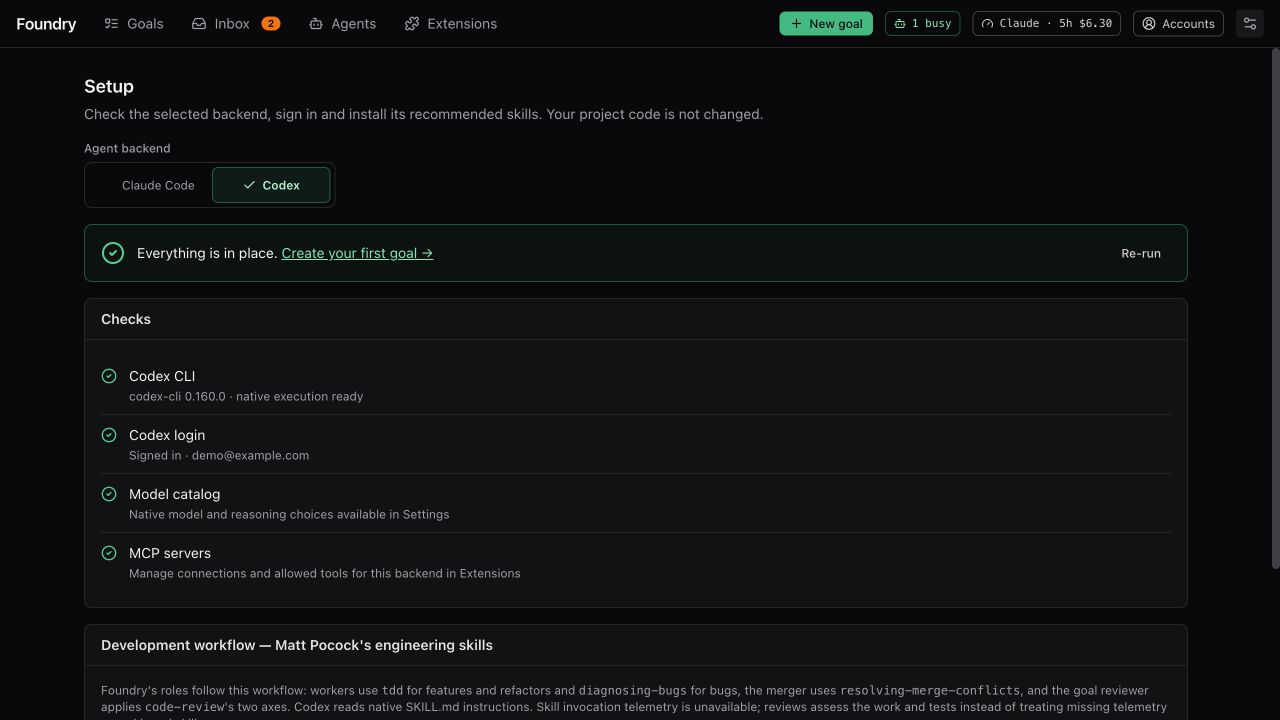
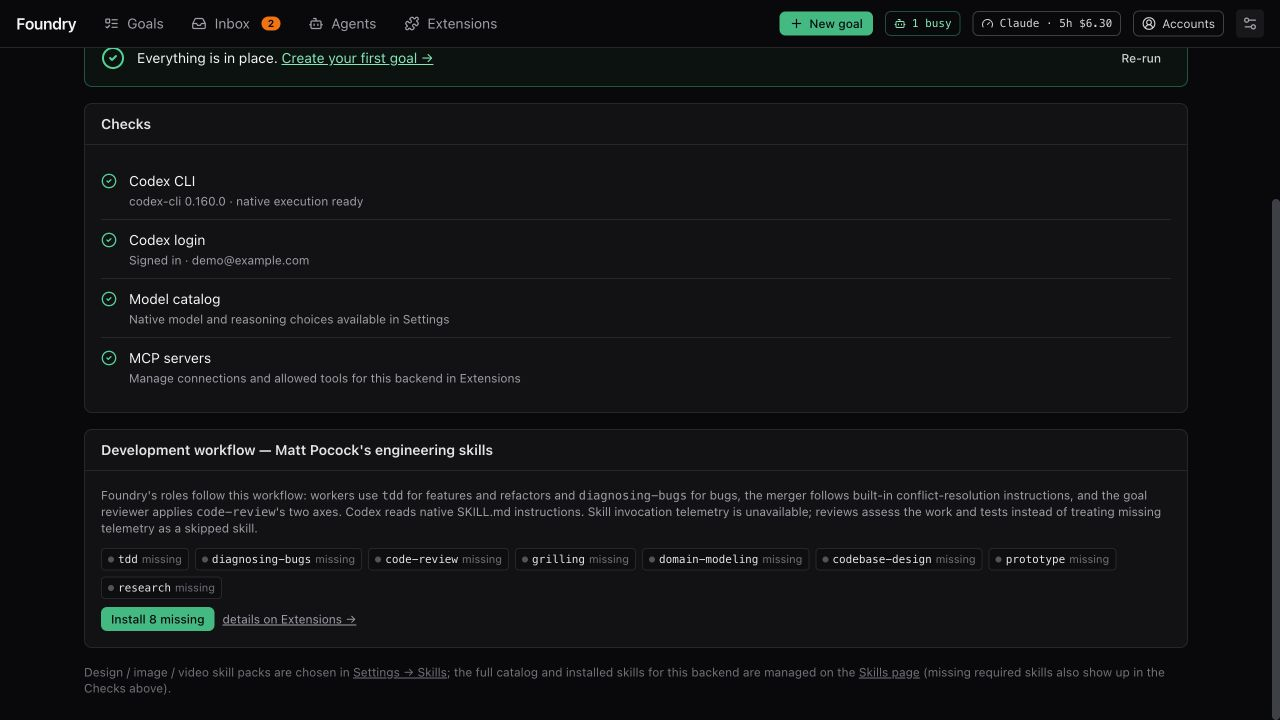
fix(skills): select native recipes and remove obsolete workflow dependency

diff --git a/packages/engine/src/skills/provider-catalog.test.ts b/packages/engine/src/skills/provider-catalog.test.ts
@@ -1,0 +1,49 @@
+import { afterAll, expect, test } from 'bun:test';
+import { existsSync, mkdirSync, mkdtempSync, readFileSync, rmSync, writeFileSync } from 'node:fs';
+import { tmpdir } from 'node:os';
+import { join } from 'node:path';
+import { skillMd, writeCatalog } from './fake-home.test-helper.ts';
+import { SkillsManager } from './manager.ts';
+
+const home = mkdtempSync(join(tmpdir(), 'foundry-provider-catalog-'));
+afterAll(() => rmSync(home, { recursive: true, force: true }));
+
+test('provider catalog controls installs, bundles, hints and manual commands using the native source', async () => {
+  const upstream = join(home, 'upstream');
+  for (const [path, description] of [['claude/portable', 'Claude variant'], ['.agents/portable', 'Codex variant'], ['skills/claude-only', 'Requires Claude']]) {
+    mkdirSync(join(upstream, path!), { recursive: true });
+    writeFileSync(join(upstream, path!, 'SKILL.md'), skillMd(path!.split('/').at(-1)!, description));
+  }
+  for (const args of [['init', '-q', '-b', 'main'], ['add', '.'], ['-c', 'user.name=Fixture', '-c', 'user.email=fixture@example.test', 'commit', '-qm', 'test: add skill fixtures']]) {
+    const child = Bun.spawn(['git', ...args], { cwd: upstream, stdout: 'ignore', stderr: 'pipe' });
+    expect(await child.exited).toBe(0);
+  }
+  const source = { type: 'git', repo: 'fixture/skills', url: `file://${upstream}` };
+  const base = { summary: '', why: '', tier: 'recommended', bundle: 'fixture', roles: ['worker'] };
+  const catalogPath = writeCatalog(join(home, 'catalog'), [
+    { ...base, id: 'portable', name: 'portable', source: { ...source, path: 'claude/portable' }, providerSources: { codex: { ...source, path: '.agents/portable' } } },
+    { ...base, id: 'claude-only', name: 'claude-only', providers: ['claude'], source: { ...source, path: 'skills/claude-only' } },
+    { ...base, id: 'tool', name: 'tool', source: { type: 'cli', detect: 'tool', install: 'tool install --platform claude' }, providerSources: { codex: { type: 'cli', detect: 'tool', install: 'tool install --platform codex' } } },
+    { ...base, id: 'missing-native', name: 'portable', source: { ...source, path: '.agents/deleted' } },
+  ]);
+  const manager = (provider: 'claude' | 'codex') => new SkillsManager({ provider, claudeHome: join(home, provider), dataDir: join(home, 'data', provider), catalogPath, which: () => null });
+  const claude = manager('claude');
+  const codex = manager('codex');
+  // Neither hidden recommendations nor direct API requests may install an unsupported source.
+  await expect(codex.install('claude-only')).rejects.toThrow(/not in the catalog/);
+  const bundle = await codex.installBundle('fixture');
+  expect(bundle.results.find((r) => r.id === 'portable')?.action).toBe('installed');
+  expect(bundle.results.some((r) => r.id === 'claude-only')).toBe(false);
+  expect(readFileSync(join(codex.paths.skillsDir, 'portable', 'SKILL.md'), 'utf8')).toContain('Codex variant');
+  expect((await codex.install('tool')).manual?.command).toBe('tool install --platform codex');
+  expect(await codex.hints.hintFor('worker')).not.toContain('claude-only');
+  await claude.install('portable');
+  await claude.install('claude-only');
+  expect(readFileSync(join(claude.paths.skillsDir, 'portable', 'SKILL.md'), 'utf8')).toContain('Claude variant');
+  expect(await claude.hints.hintFor('worker')).toContain('claude-only');
+  expect((await claude.install('tool')).manual?.command).toBe('tool install --platform claude');
+  // An explicit native path disappearing must not silently choose another platform's same-named skill.
+  await expect(codex.install('missing-native', { force: true })).rejects.toMatchObject({ code: 'not-found' });
+  expect(readFileSync(join(codex.paths.skillsDir, 'portable', 'SKILL.md'), 'utf8')).toContain('Codex variant');
+  expect(existsSync(join(codex.paths.skillsDir, 'claude-only'))).toBe(false);
+});

diff --git a/apps/web/src/pages/SetupPage.tsx b/apps/web/src/pages/SetupPage.tsx
@@ -240,7 +240,7 @@ function SetupChecks({ provider }: { provider: AgentProvider }) {
 
       <Card title="Development workflow — Matt Pocock's engineering skills">
         <p className="text-xs text-zinc-400 mb-3">
-          Foundry's roles follow this workflow: workers use <span className="mono">tdd</span> for features and refactors and <span className="mono">diagnosing-bugs</span> for bugs, the merger uses <span className="mono">resolving-merge-conflicts</span>, and the goal reviewer applies <span className="mono">code-review</span>'s two axes. {provider === 'codex' ? 'Codex reads native SKILL.md instructions. Skill invocation telemetry is unavailable; reviews assess the work and tests instead of treating missing telemetry as a skipped skill.' : <>The engine records which skills each session invoked. Skills provided by the <span className="mono">mattpocock-skills</span> plugin are used as-is; others are installed from the catalog.</>}
+          Foundry's roles follow this workflow: workers use <span className="mono">tdd</span> for features and refactors and <span className="mono">diagnosing-bugs</span> for bugs, the merger follows built-in conflict-resolution instructions, and the goal reviewer applies <span className="mono">code-review</span>'s two axes. {provider === 'codex' ? 'Codex reads native SKILL.md instructions. Skill invocation telemetry is unavailable; reviews assess the work and tests instead of treating missing telemetry as a skipped skill.' : <>The engine records which skills each session invoked. Skills provided by the <span className="mono">mattpocock-skills</span> plugin are used as-is; others are installed from the catalog.</>}
         </p>
         <BundleStatus provider={provider} bundle="mattpocock" busy={busy} onInstall={() => runAction('bundle', async () => {
           const r = await api.installBundle('mattpocock');

diff --git a/packages/engine/src/skills/installer.ts b/packages/engine/src/skills/installer.ts
@@ -63,12 +63,13 @@ export async function ensureCache(src: Extract<CatalogEntry['source'], { type: '
   return dir;
 }
 
-/** Find the skill directory inside the cache: explicit path first, else `**\/<name>/SKILL.md`. */
+/** Honor an explicit native path; only path-less entries may discover `**\/<name>/SKILL.md`. */
 export function locateSkillDir(cacheDir: string, entry: CatalogEntry): string {
   if (entry.source.type !== 'git') throw new InstallError('not a git entry', 'manual');
   if (entry.source.path) {
     const d = join(cacheDir, entry.source.path);
     if (existsSync(join(d, 'SKILL.md'))) return d;
+    throw new InstallError(`SKILL.md for ${entry.name} not found in ${entry.source.repo} (path ${entry.source.path})`, 'not-found');
   }
   const glob = new Bun.Glob(`**/${entry.name}/SKILL.md`);
   const hits = [...glob.scanSync({ cwd: cacheDir, dot: false })].filter((h) => !h.includes('node_modules/')).sort((a, b) => a.length - b.length);

diff --git a/packages/engine/src/skills/types.ts b/packages/engine/src/skills/types.ts
@@ -73,12 +73,16 @@ export type WorkflowRule = z.infer<typeof WorkflowRule>;
 
 export const CatalogEntry = z.object({
   id: z.string().min(1),
-  /** skill directory name (what Claude Code sees) */
+  /** skill directory name in the selected backend */
   name: z.string().min(1),
   summary: z.string(),
   why: z.string(),
   tier: SkillTier,
   source: CatalogSource,
+  /** Omitted means both backends; restrict recipes that depend on a particular native runtime. */
+  providers: z.array(z.enum(['claude', 'codex'])).min(1).optional(),
+  /** Complete source recipes, selected before status, install, update and workflow hints. */
+  providerSources: z.object({ claude: CatalogSource.optional(), codex: CatalogSource.optional() }).optional(),
   roles: z.array(SkillRole).default([]),
   /** slash name; defaults to `/${name}` */
   invoke: z.string().optional(),

diff --git a/packages/engine/src/skills/manager.ts b/packages/engine/src/skills/manager.ts
@@ -86,7 +86,11 @@ export class SkillsManager {
     } catch {}
     if (!this.catalogCache || mtime !== this.catalogMtime) {
       this.catalogCache = loadCatalog(this.opts.catalogPath);
-      if (this.opts.provider === 'codex') this.catalogCache.entries = this.catalogCache.entries.filter((entry) => entry.source.type !== 'plugin');
+      const provider = this.opts.provider ?? 'claude';
+      this.catalogCache.entries = this.catalogCache.entries
+        .filter((entry) => !entry.providers || entry.providers.includes(provider))
+        .map((entry) => ({ ...entry, source: entry.providerSources?.[provider] ?? entry.source }))
+        .filter((entry) => provider !== 'codex' || entry.source.type !== 'plugin');
       this.catalogMtime = mtime;
       this.hints.invalidate();
     }

diff --git a/docs/operate/codex.md b/docs/operate/codex.md
@@ -54,7 +54,7 @@ Without an explicit preset, the goal captures the configured default table for e
 | `FOUNDRY_CODEX_HOME` | Configuration/login home; falls back to `CODEX_HOME`, then `~/.codex` |
 | `FOUNDRY_CODEX_MODEL` | Base model for default preset entries; defaults to `codex-default` |
 
-Saved settings override the corresponding environment defaults. Binary and home changes require restarting Foundry. Model and preset changes apply to new Codex goals; existing goals retain their captured tables and fallback order after edits or deletion. A captured `codex-default` still follows the native Codex configuration. The complete keys are documented in [the configuration reference](configuration.md), including `models.codexPresets`, `models.codexPresetCode`, `models.codexPresetDocs`, `models.codexPresetMedia` and `models.codexFallbacks`.
+Saved settings override the corresponding environment defaults. Configured binary and home changes require restarting Foundry. When no binary override is configured, Accounts re-resolves the executable on PATH for status, login and logout; installing or removing the CLI in an existing PATH directory invalidates the cached account result. Changing the process PATH itself still requires restarting with that environment. Model and preset changes apply to new Codex goals; existing goals retain their captured tables and fallback order after edits or deletion. A captured `codex-default` still follows the native Codex configuration. The complete keys are documented in [the configuration reference](configuration.md), including `models.codexPresets`, `models.codexPresetCode`, `models.codexPresetDocs`, `models.codexPresetMedia` and `models.codexFallbacks`.
 
 ## Permissions, skills and accounting
 
@@ -64,6 +64,14 @@ Saved settings override the corresponding environment defaults. Binary and home 
 - Foundry runs a separate read-only Codex Planner session using the selected Planner model and effort. The Clarifier reviews its task proposal before producing the Brief. This is Foundry-managed orchestration; native Codex multi-agent delegation remains disabled. Foundry does not pass Claude's `--agents` definitions or rely on Claude's Skill tool.
 - Codex JSONL reports token usage but no USD cost. Foundry reads ChatGPT account identity and quota separately through the native app-server. Usage shows all returned quota buckets, known windows and reported reset times beside local activity. Refresh reads account metadata without inference; ordinary polling caches it for 60 seconds. Missing fields stay unknown and only the explicit ordinary-usage allowance reports availability. A percentage or past reset time never proves recovery. Foundry marks dollar cost as unavailable. **USD caps cannot be enforced for Codex.** Use duration, concurrency, attempts and tool-call limits. The existing turn-cap setting bounds tool calls for Codex; it is not a model-turn count. CLI/API legacy numeric cost fields remain zero when cost is unreported.
 - Structured output, live tool events, transcript reopening, session resume, cancellation, wall-clock timeout and idle timeout use the native Codex CLI protocol. On POSIX, cancellation and shutdown signal the owned process group and wait for forced cleanup of tool/MCP descendants. MCP manager shutdown also cancels queued changes and awaits active native processes; model discovery cleans up its sidecars. Foundry MCP denials retain tool names for provider-specific Inbox recovery, without storing arguments.
+
+## Skill catalog compatibility
+
+The catalog is selected before status, installation, updates and workflow hints. `providers` restricts a recipe to its supported backend(s); `providerSources` supplies a complete native source recipe when the same skill supports both. Omitted fields preserve the shared behavior. Claude plugin recipes remain excluded from the Codex skill catalog. Explicit git paths are authoritative: a missing path fails before replacing any existing skill, rather than falling back to another platform’s same-named directory.
+
+The [compatibility table](../guide/settings.md#skill-compatibility) describes user-visible choices. Anthropic’s portable frontend-design and Python Playwright guidance remain available. Codex gets OpenAI’s skill-creator, `graphify install --platform codex`, and Impeccable’s `.agents/skills/impeccable` source. The Claude-only gstack recipe stays outside Codex recommendations; upstream’s experimental Codex setup is a separate integration and its outside-review workflow needs authenticated Claude CLI. This is not a claim that every gstack command is incompatible.
+
+The Matt Pocock bundle contains eight current skills. Upstream removed resolving-merge-conflicts; the built-in Merger role retains conflict-resolution instructions without that external dependency. Existing personal/shared copies are not automatically deleted or rewritten. Update managed native variants or explicitly replace an old skill-creator copy in Extensions; shared-directory copies must be managed at their source. A found skill is not proof that all optional executables, image tools, credentials or child-agent capabilities are available.
 
 ## Docker
 

diff --git a/docs/develop/codex-validation.md b/docs/develop/codex-validation.md
@@ -1,6 +1,6 @@
 # Codex integration validation
 
-This record accompanies PR #52 before merge. It describes evidence for the shared Claude/Codex implementation, not a guarantee that every account, native CLI version or container host behaves identically. Current setup and capability limits are in [the operator guide](../operate/codex.md).
+This record retains the PR #52 baseline and records the post-merge account-discovery and skill-catalog follow-up. It describes evidence for the shared Claude/Codex implementation, not a guarantee that every account, native CLI version or container host behaves identically. Current setup and capability limits are in [the operator guide](../operate/codex.md).
 
 ## Repeatable checks
 
@@ -25,6 +25,15 @@ The full test command includes package, CLI and web regressions; plain `bun test
 - Native smoke checks exercised ChatGPT account/quota reads and structured new/resumed sessions with host CLI `0.158.0-alpha.2`. Native plugin list/install/refresh/remove checks passed in an isolated local fixture marketplace on the host and Docker-pinned `0.160.0` CLI. A metadata-only account check confirmed a weekly-only account shape (two 10,080-minute groups, no short window) without capturing identity or usage percentages. Populated external history uses protocol fixtures; the native history smoke covered an isolated empty home. The Docker build pins the latter version; this does not imply every future CLI protocol is compatible.
 - Browser checks use temporary repositories and fixture identities/quota. Guide screenshots show examples, not a measurement of a personal account. The UI follow-up checks Setup, Settings, Extensions, Usage and New goal with the shared backend selector, native keyboard navigation and padded select arrows in light/dark themes and at narrow widths.
 - The UI follow-up also adds provider-specific health pause data and verifies notification names/links against mixed-provider and legacy events. Retry times are not described as guaranteed account resets.
+
+### Account discovery and skill compatibility follow-up (2026-10-05)
+
+- **543 tests passed, 0 failed, 2,841 assertions across 89 files**, with backend/frontend type checking and a production web build. Generated CLI/settings references remain unchanged. The initial sandboxed run could not bind local test servers (17 failures); rerunning the same suite with local networking permitted produced the passing result. The Vite large-chunk warning remains.
+- The local source-run symptom was reproduced read-only: Setup found an authenticated CLI while Accounts returned installed=true with “codex not installed”, including after force refresh. Two regression fixtures start an actual Engine/API before installing a fake CLI on an isolated PATH, then check Setup, Accounts, forced refresh, sign-in, sign-out and removal for each backend. They failed before the fix and pass after it. No personal account credentials were changed; the running source instance must be updated/restarted to use this code.
+- Provider-catalog regressions exercise actual git fixture installations, bundle filtering, rejected direct installs, role hints and native manual commands. A missing explicit native path fails without overwriting an existing skill; path-less discovery remains supported.
+- **24 real git skill installations** succeeded in disposable native homes: eight Matt Pocock skills plus frontend-design, webapp-testing, Impeccable and the appropriate skill-creator for each backend. Checks verified SKILL.md and the exact installed source marker path. No downloaded skill scripts were executed; this validates installation and dependencies documented by inspection, not every skill’s runtime workflow.
+- Upstream snapshots: `mattpocock/skills` at `24fe0ef7737efae15c87225755e9f6f5965e4888`, `anthropics/skills` at `8a1541c4a3ffa5a20a5a91de0dcf3f0bab1d1ef4`, `openai/skills` at `49f948faa9258a0c61caceaf225e179651397431`; Impeccable uses the native `.claude/skills/impeccable` and `.agents/skills/impeccable` directories. [Upstream removal](https://github.com/mattpocock/skills/commit/daa01d8aa68ad5c61b68970ec2018d0ce9567be6) explains the removed merge skill. Graphify’s current upstream CLI advertises `--platform codex`; its system-level installer was not run on the personal machine.
+- Browser checks confirmed Setup’s eight-skill bundle and built-in Merger description, the Codex Graphify command and OpenAI skill-creator catalog entry. The refreshed Setup screenshot uses demonstration account data. The compatibility audit and migration advice are in the [operator guide](../operate/codex.md#skill-catalog-compatibility) and bilingual [settings guide](../guide/settings.md#skill-compatibility).
 
 ### Timing observations
 

diff --git a/docs/guide/settings.md b/docs/guide/settings.md
@@ -180,6 +180,21 @@ Skills are packaged instructions the coding agent can follow. **Agent backend** 
 
 The **Extensions** page in the top bar holds your skills, MCP servers and native Codex plugins. The following skill update and plugin-bundle details describe Claude. For Codex, **Skills** lists loose native and shared skills; **Plugins** lists native packages separately. Each skill has a state: **outdated** (a newer version is out — press **Update**), **unreleased** (a plugin's author changed it upstream without raising the version number, so the CLI has nothing new to install yet), **modified** (your copy was edited) or **up to date** (a difference in a README or changelog alone does not count). A command-line tool such as ffmpeg counts as installed as soon as its command is found. A plugin's skills can only be removed together, with **Uninstall plugin**. A copy you installed by hand offers **Adopt** when Foundry can install that skill itself: the copy is replaced by one Foundry keeps up to date. Every install, update, adoption or uninstall you start there opens a tab in the **Operations** bar at the bottom of the page, with its own log; several can run side by side. A finished tab stays until you close it, and the bar folds down to a line with counts.
 
+### Skill compatibility
+
+Compatibility depends on a skill’s tools and dependencies, not its author. The catalog selects installation recipes for **Agent backend**; Claude-only recipes do not appear in the Codex catalog or its workflow hints.
+
+| Skill | Codex behavior |
+|---|---|
+| Anthropic `frontend-design` / `webapp-testing` | Portable instructions. Web testing additionally needs Python, Python Playwright and Chromium. |
+| `skill-creator` | Uses OpenAI’s version. If an older Anthropic copy is present, expand **Catalog**, find `skill-creator` and use **Replace**; the old copy goes to trash. Shared skills remain managed at their original location. |
+| `claude-api` | Optional reference for projects using the Anthropic SDK. It does not switch Foundry’s login or require Claude as the executing agent; it is not automatically suggested to every worker. |
+| Graphify / Impeccable | Use the Codex installation recipe / native skill directory. Update an older Foundry-managed Impeccable copy to select the current native variant. |
+| gstack / Claude plugin recipes | Not recommended through the Codex skill catalog. gstack’s upstream Codex port is experimental and outside reviews need Claude CLI; native Codex plugins have their own **Plugins** tab. |
+| Image / video skills | Still need their rendering tools, project dependencies and any service credentials. ChatGPT login does not provide image API keys or the desktop app’s image tools to headless sessions. |
+
+An **installed** label means the skill was found, not that every optional tool or service has been configured. Personal/shared skills are still visible; Foundry does not remove them when the selected catalog changes. If an explicit upstream skill path disappears, installation reports the missing path rather than choosing a same-named skill for another agent.
+
 ### Codex plugins
 
 ![Codex native plugin management — demonstration data](images/codex-native-plugins.png)

diff --git a/docs/guide/your-first-goal.md b/docs/guide/your-first-goal.md
@@ -13,7 +13,7 @@
 
 ## Agent accounts and backend
 
-Open **Accounts** in the header to see Claude Code and Codex separately. **Sign in to Codex** uses ChatGPT device authorization; enter the displayed code on the linked page. **Sign in to Claude Code** uses Claude's native login. Credentials belong to the local CLI: signing out here also signs out that CLI, but does not sign out the other provider. Foundry refuses sign-in and sign-out while work is active, including requests from the CLI. Codex supports ChatGPT sign-in only; API-key login is not used. The account card shows the native email and plan when available.
+Open **Accounts** in the header to see Claude Code and Codex separately. **Sign in to Codex** uses ChatGPT device authorization; enter the displayed code on the linked page. **Sign in to Claude Code** uses Claude's native login. Credentials belong to the local CLI: signing out here also signs out that CLI, but does not sign out the other provider. Foundry refuses sign-in and sign-out while work is active, including requests from the CLI. Codex supports ChatGPT sign-in only; API-key login is not used. The account card shows the native email and plan when available. Installing a CLI while Foundry is running is detected on the next account check; Setup and Accounts use the current executable. Changes to a configured binary path or native home still require a restart.
 
 On **New goal**, choose **Agent backend** before creating the goal. Both providers can run in one Foundry instance. The selected backend stays fixed through clarification, workers, retries, reviews and delivery assistance; sessions never resume on another provider. Each backend has independent model presets under **Models**. Codex captures the preset's role models, reasoning efforts and fallback order when you create the goal.
 
@@ -39,7 +39,7 @@ Open the ⚙ menu at the right of the top bar and choose **Setup** (a red dot on
 
 When everything needed is in place the page says **Everything is in place** and offers **Create your first goal →**. **Re-run** checks again. If something is missing later, a red **Setup incomplete** banner appears with **Fix in Setup →**.
 
-The card **Development workflow — Matt Pocock's engineering skills** lists the skills Foundry's workers follow (for example writing tests first). If some are missing, press **Install N missing**.
+The card **Development workflow — Matt Pocock's engineering skills** lists the skills Foundry's workers follow (for example writing tests first). If some are missing, press **Install N missing**. The bundle contains eight current upstream skills. The removed `resolving-merge-conflicts` skill is no longer requested; Foundry’s built-in Merger instructions still handle conflicts.
 
 ### Pick a repository folder
 

diff --git a/CONTEXT.md b/CONTEXT.md
@@ -185,7 +185,7 @@ Where an installed Skill comes from and who updates it: a GitHub repository mana
 A user-level Skill that has the same name as a Skill provided by a plugin. Both load; prompts use the plugin's copy because it is the one that gets updated. Shadow copies are reported and can be moved to the trash in one click.
 
 **Workflow Skill**
-A Skill a Role is told to follow for a kind of work — *must* or *prefer* — because the engine follows Matt Pocock's engineering workflow: `tdd` for features and refactors, `diagnosing-bugs` for bugs, `resolving-merge-conflicts` for the Merger, `code-review` for the Goal Reviewer. Claude invocation telemetry records which Skills a session invoked; a missing mandated invocation is a note for the next Attempt, never a failure on its own. Codex reads native skill instructions without invocation telemetry, so compliance is assessed from the work and tests rather than a missing event.
+A Skill a Role is told to follow for a kind of work — *must* or *prefer* — because the engine follows Matt Pocock's engineering workflow: `tdd` for features and refactors, `diagnosing-bugs` for bugs, `code-review` for the Goal Reviewer. Claude invocation telemetry records which Skills a session invoked; a missing mandated invocation is a note for the next Attempt, never a failure on its own. Codex reads native skill instructions without invocation telemetry, so compliance is assessed from the work and tests rather than a missing event. The Merger follows built-in conflict-resolution instructions; it does not require an external merge skill.
 
 **Task Kind**
 The nature of a Task — feature, bug, refactor, research or chore — set in the Brief. It selects the Workflow Skills the Worker is asked to follow.
